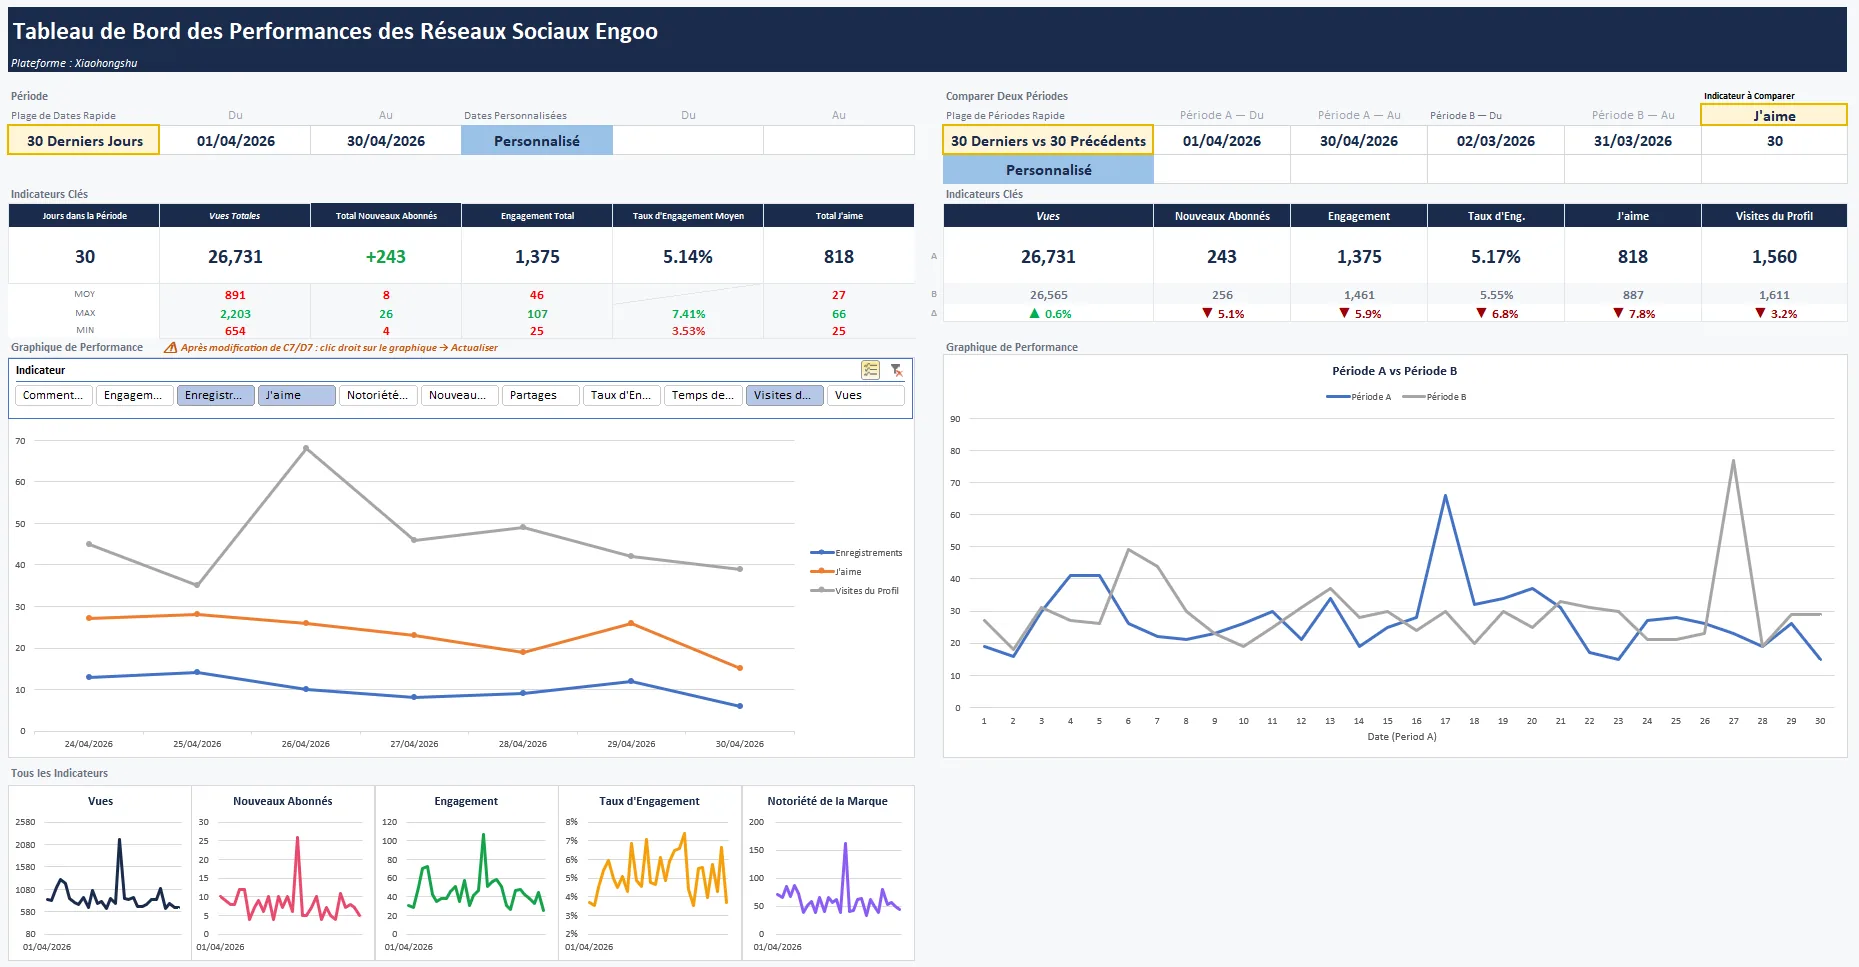
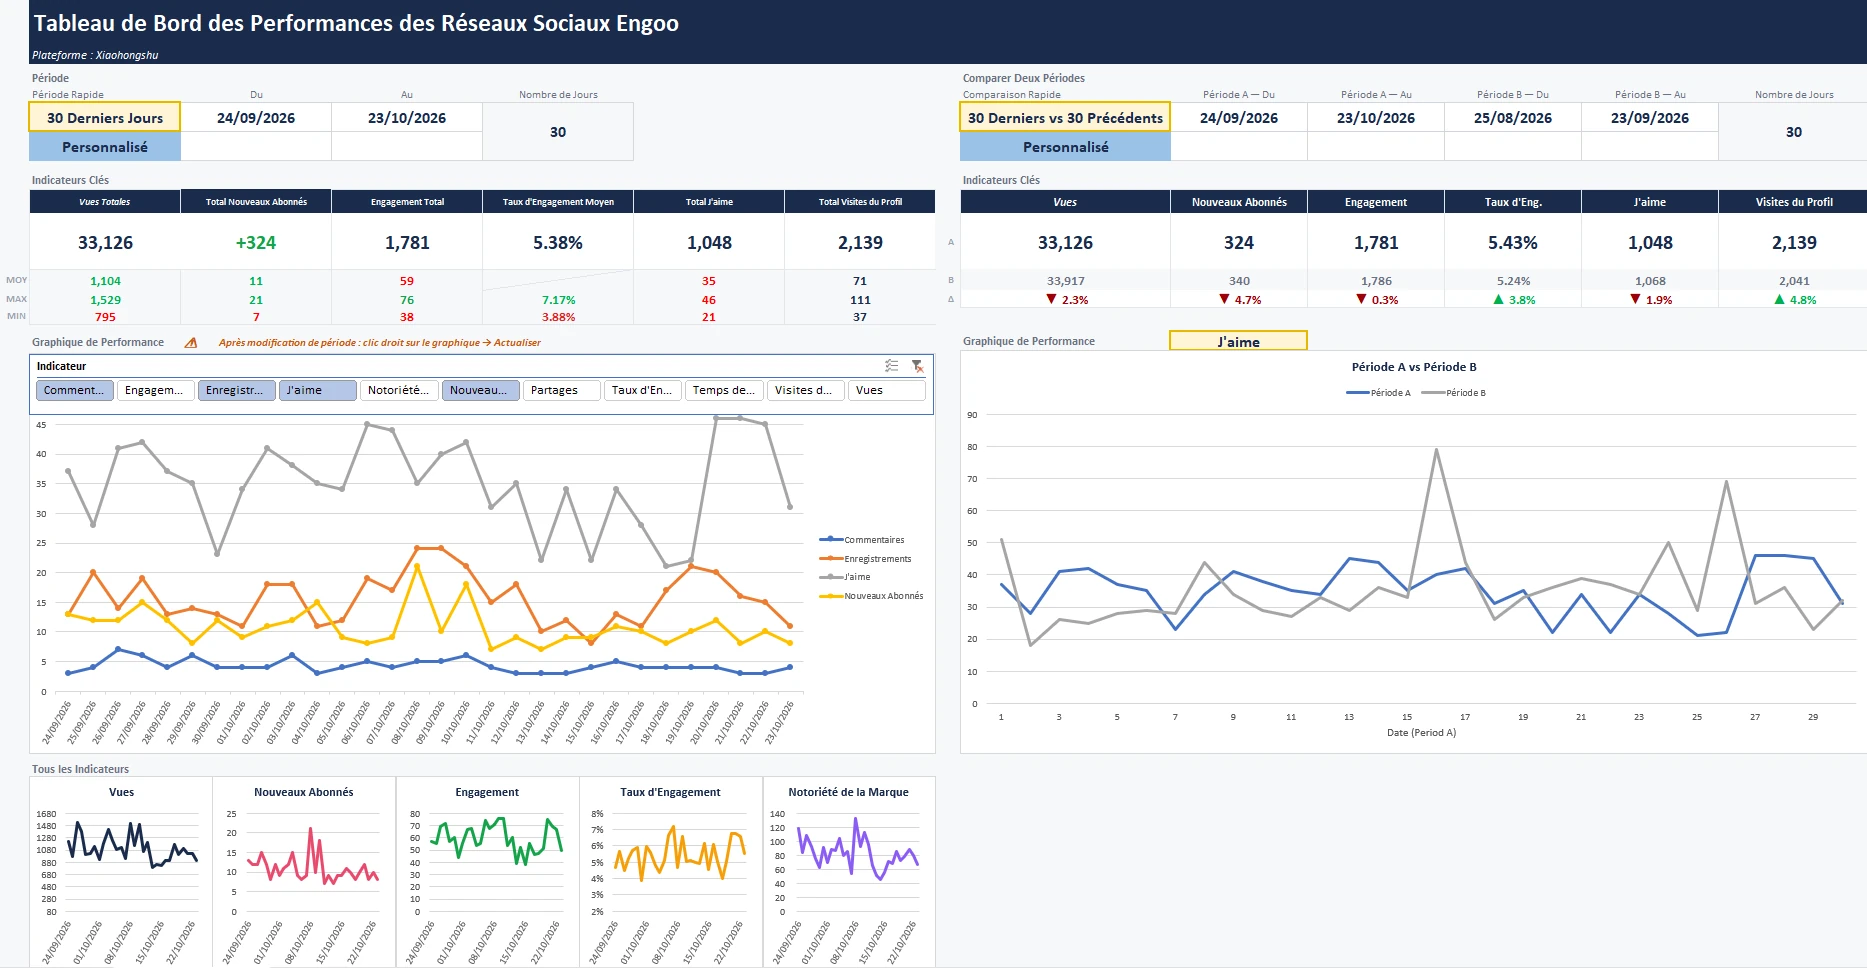
Engoo : captures et couvertures du dashboard mises à jour (nouvelle version FR et EN)
Claude-Session: https://claude.ai/code/session_01ABkUnmGns6Wcckuv4BJqHM

diff --git a/CLAUDE.md b/CLAUDE.md
@@ -284,8 +284,9 @@ Order proof cards within a skill by importance (descending):
 - **Decks du rapport (`assets/Engoo_Weekly Report_FR.pptx` et `_EN.pptx`, corrigés)** : « meilleure semaine depuis le début du suivi » ; « les nouveaux abonnés ont plus que doublé » ; 4e point de la synthèse = visites du profil (+36 %) ; diapositive 4 renommée « Aperçu des contenus » / « Content Highlights », sans badges de classement ni « n° 1 » ; moteurs de la semaine : seul le contenu Zodiaque est cité (publié pendant la semaine du Nouvel An), plus de mention de budget publicitaire. Diapositives du carrousel marketing : `assets/Engoo_Weekly Report_FR|EN/Diapositive1-7.JPG`, exportées par l'utilisatrice depuis PowerPoint (jamais rendues par LibreOffice, les polices diffèrent) ; couvertures `assets/covers/engoo-weekly(-en).webp` recomposées à partir de ces exports (diapositive 1 devant, 2 derrière, sur le papier `#f3f1ea`). Ne jamais réintroduire « chaque top post a dépassé 3 000 vues » ni aucun chiffre absent du dashboard : l'utilisatrice a demandé un chiffre embelli, refusé (§ 5).
 - **Rapport hebdomadaire XHS : un exemple, pas un modèle** (demande de l'utilisatrice). Les diapositives montrées sont celles d'une seule semaine (27/01 – 02/02/2025). Ne jamais le présenter comme bilingue (aucun « bilingue », « FR / EN », « Langues de diffusion ») ni comme un format fixe (« 7 diapositives par semaine ») ; la fiche marketing du catalogue n'affiche pas de chiffre, l'intérêt du projet étant la lecture des chiffres, pas un chiffre.
 - **TCD interactif du dashboard XHS (`#xhs-dashboard`, `xhs-pivot.js`)** : dans l'étude complète, entre « Action » et « Résultats », un tableau croisé dynamique comme dans Excel (lignes, colonnes, indicateur, synthèse Somme / Moyenne / Max / Min, période par mois). Il ne contient que les **136 jours réels** (01/10/2024 – 13/02/2025) de la feuille « Données » de `assets/Engoo_Excel/Engoo_XHS Dashboard_FR_261023.xlsx`, jamais les jours simulés. Engagement, taux d'engagement et notoriété se recalculent comme dans l'Excel (taux en somme ou moyenne = engagement total / vues totales). Libellés, mois, jours et nombres entièrement en français ou entièrement en anglais selon la langue, jamais de chinois. Fichiers Engoo dans `assets/Engoo_Excel/` (ancien `Excel_Engoo`).
+- **Captures du dashboard Engoo** (`assets/Engoo_Excel/Engoo Dashboard_FR|EN.webp`) : exportées par l'utilisatrice depuis Excel (version du 23/10/2026, période « 30 derniers jours », données simulées), jamais rendues par LibreOffice (segments et graphiques croisés vides). Les quatre couvertures `assets/covers/engoo-dashboard(-data)(-en).webp` en sont recomposées : capture entière de 1 078 px de large, filet et ombre douce, sur le papier `#f3f1ea` (marketing) ou la carte `#eef3ef` (data).
 - Identifiants des projets : `xhs-dashboard`, `ma-risque-politique`, `chocolat-fmcg`, `boutique-mode`, `xhs-weekly`.
-- **Engoo, faits confirmés par l'utilisatrice** : le dashboard suit **11 métriques**, celles de l'Excel (vues, temps de visionnage total, j'aime, enregistrements, commentaires, partages, visites du profil, nouveaux abonnés, engagement, taux d'engagement, notoriété de la marque), jamais CTR, taux de complétion ni portée (l'Excel n'a ni impressions, ni clics, ni données par post ou par format : « +34 % CTR », « +28 % d'engagement » après passage au tutoriel court et « CTR 25 % supérieur des miniatures Educational Tips » ont été retirés des deux portfolios et de `main.js`, source introuvable) ; elle a géré le compte XHS **de 12/2024 à 02/2025** (inactif avant), d'où les progressions « sur 3 mois » ; **aucun script Python ni macro VBA** chez Engoo ; gain de temps du dashboard = **30 % de temps de reporting quotidien en moins** (jamais « 5 h par semaine ») : le script Python d'automatisation du reporting client a été fait **chez KPN** (5 à 10 minutes gagnées par client chaque semaine), puces `experience.kpn.*PythonPoint` sur chaque page CV.
+- **Engoo, faits confirmés par l'utilisatrice** : le dashboard suit **11 métriques**, celles de l'Excel (vues, temps de visionnage total, j'aime, enregistrements, commentaires, partages, visites du profil, nouveaux abonnés, engagement, taux d'engagement, notoriété de la marque), jamais CTR, taux de complétion ni portée (l'Excel n'a ni impressions, ni clics, ni données par post ou par format : « +34 % CTR », « +28 % d'engagement » après passage au tutoriel court et « CTR 25 % supérieur des miniatures Educational Tips » ont été retirés des deux portfolios et de `main.js`, source introuvable) ; elle a géré le compte XHS **de 12/2024 à 02/2025** (inactif avant), d'où les progressions « sur 3 mois » ; **+93,3 % de vues, +89,1 % d'interactions et +69,7 % d'abonnés** : chiffres maintenus par l'utilisatrice (source exacte oubliée, non reproductibles à partir de la feuille « Données », qui donne par exemple +70,7 % de vues par jour entre 12/2024 – 02/2025 et 10 – 11/2024) : ne pas les modifier ni les recalculer ; **aucun script Python ni macro VBA** chez Engoo ; gain de temps du dashboard = **30 % de temps de reporting quotidien en moins** (jamais « 5 h par semaine ») : le script Python d'automatisation du reporting client a été fait **chez KPN** (5 à 10 minutes gagnées par client chaque semaine), puces `experience.kpn.*PythonPoint` sur chaque page CV.
 - **Script Python du dashboard XHS** (`update-data.py`, gardé hors du dépôt) : écrit **après le stage, pour le portfolio**, il ajoute les nouveaux exports XHS sous les données brutes de la feuille `Data`. Mentionné en une phrase discrète à la fin de la partie « Action » du dashboard (`portfolio-data.html` et `portfolio-marketing.html`), jamais mis en avant, jamais dans les puces Engoo des CV (chez Engoo, aucun script).
 - **Maison Beauté** (vérifié sur le jeu de données Kaggle) : « dépense premium » = vins + produits or (`MntWines + MntGoldProds`), r = 0,59 donc R² ≈ 0,34 ; le « profil idéal » est la moyenne des clients ayant répondu à la campagne Response, tranche de revenu T3, pas T4.
 
